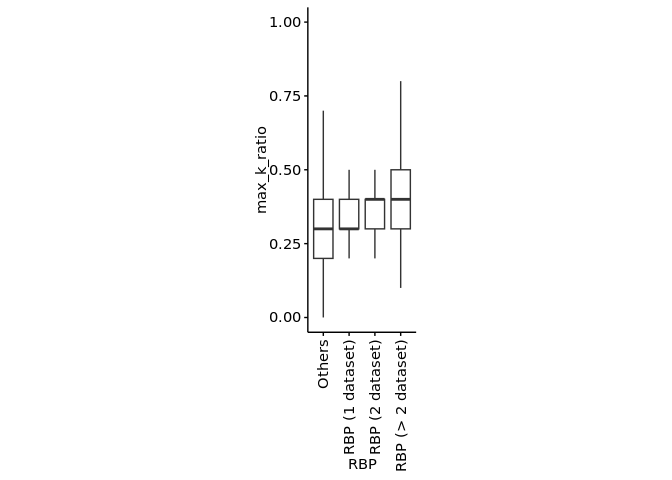
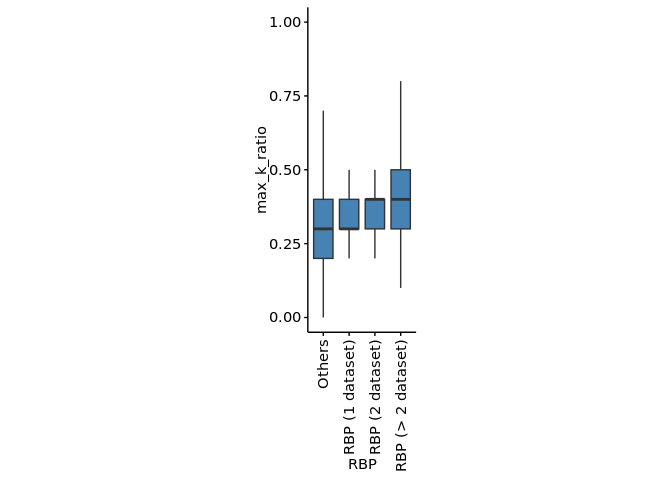
p1 updated

Changed region(s): [[0.4688, 0.3438, 0.625, 0.5625]]

diff --git a/R/p1_lysine-rich-domain-biology/p1-2_lysine-rich-domains.md b/R/p1_lysine-rich-domain-biology/p1-2_lysine-rich-domains.md
@@ -54,7 +54,7 @@ renv::restore(file.path(project.dir, "R"))
     ## - Installing Biostrings ...                     OK [copied from cache]
     ## - Installing KEGGREST ...                       OK [copied from cache]
     ## - Installing AnnotationDbi ...                  OK [copied from cache]
-    ## - Installing org.Hs.eg.db ...                   OK [copied from cache in 0.43s]
+    ## - Installing org.Hs.eg.db ...                   OK [copied from cache in 0.39s]
 
 ``` r
 temp <- sapply(list.files(file.path(project.dir, "R/functions"), pattern="*.R", full.names = TRUE), source)
@@ -172,12 +172,27 @@ protein.feature.dt <- fread(file.path(data.dir, "PNAS2022/all_protein_feature_pe
 # Basic statistics
 
 ``` r
+protein.feature.dt[, table(K_ratio)]
+```
+
+    ## K_ratio
+    ##       0     0.1     0.2     0.3     0.4     0.5     0.6     0.7     0.8     0.9 
+    ## 6672182 3249314 1066633  255694   52006   11627    2951     979     322      54 
+    ##       1 
+    ##       2
+
+``` r
+protein.feature.dt[, K_ratio_group := case_when(
+  K_ratio >= 0.9 ~ 0.9,
+  TRUE ~ K_ratio
+)]
+
 ## The number of proteins per max K score
 
 ggplot(
     protein.feature.dt,
     aes(
-        x = K_ratio
+        x = K_ratio_group
     )
 ) +
     geom_bar() +
@@ -192,11 +207,11 @@ ggplot(
 ggplot(
   protein.feature.dt,
   aes(
-    x = factor(K_ratio),
+    x = factor(K_ratio_group),
     y = IUPRED2
   )
 ) + 
-  geom_boxplot(outlier.shape = NA)
+  geom_boxplot(fill = "steelblue", outlier.shape = NA)
 ```
 
 ![](p1-2_lysine-rich-domains_files/figure-gfm/basic_stats-2.png)<!-- -->
@@ -206,11 +221,12 @@ ggplot(
 ggplot(
   protein.feature.dt,
   aes(
-    x = factor(K_ratio),
+    x = factor(K_ratio_group),
     y = windowCharge
   )
 ) + 
-  geom_boxplot(outlier.shape = NA)
+  geom_hline(yintercept = 0, color = "gray60") +
+  geom_boxplot(fill = "steelblue", outlier.shape = NA)
 ```
 
     ## Warning: Removed 211124 rows containing non-finite outside the scale range

diff --git a/R/p1_lysine-rich-domain-biology/p1-1_lysine-rich-domain-proteins.md b/R/p1_lysine-rich-domain-biology/p1-1_lysine-rich-domain-proteins.md
@@ -55,7 +55,7 @@ renv::restore(file.path(project.dir, "R"))
     ## - Installing Biostrings ...                     OK [copied from cache]
     ## - Installing KEGGREST ...                       OK [copied from cache]
     ## - Installing AnnotationDbi ...                  OK [copied from cache]
-    ## - Installing org.Hs.eg.db ...                   OK [copied from cache in 0.37s]
+    ## - Installing org.Hs.eg.db ...                   OK [copied from cache in 0.39s]
 
 ``` r
 temp <- sapply(list.files(file.path(project.dir, "R/functions"), pattern="*.R", full.names = TRUE), source)
@@ -300,7 +300,7 @@ ggplot(
     y = protein_len,
     x = factor(max_k_ratio)
   )
-) + geom_boxplot(outlier.shape = NA) +
+) + geom_boxplot(fill = "steelblue", outlier.shape = NA) +
   coord_cartesian(ylim = c(0, 2000))
 ```
 
@@ -338,7 +338,7 @@ ggplot(
     y = max_k_ratio
     )
   ) +
-  geom_boxplot(outlier.shape = NA) +
+  geom_boxplot(fill = "steelblue", outlier.shape = NA) +
   scale_x_discrete(guide = guide_axis(angle = 90)) +
   theme(aspect.ratio = 3)
 ```
